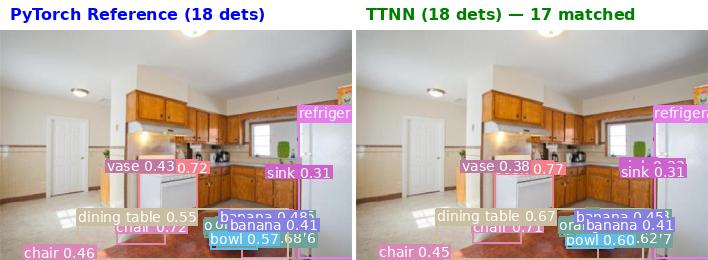
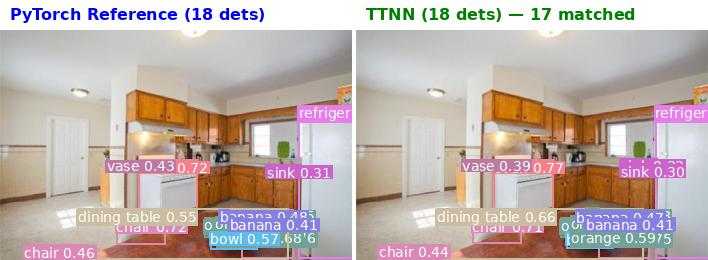
changes in pre_transformer and positional_encoding in decoder

diff --git a/models/experimental/dino_5scale_swin_l/tt/tt_dino.py b/models/experimental/dino_5scale_swin_l/tt/tt_dino.py
@@ -25,8 +25,21 @@ from models.experimental.dino_5scale_swin_l.tt.tt_encoder import TtDINOEncoder
 from models.experimental.dino_5scale_swin_l.tt.tt_decoder import (
     TtDINODecoder,
     TtRegBranch,
-    inverse_sigmoid_torch,
+    inverse_sigmoid_ttnn,
 )
+
+# Tile alignment for ttnn.concat (TILE layout requires aligned dims)
+TILE_ALIGN = 32
+
+
+def _tile_aligned_hw(H: int, W: int) -> int:
+    """Return padded H*W: tile-aligned and divisible by H (for encoder value reshape)."""
+    hw = H * W
+    padded = (hw + TILE_ALIGN - 1) // TILE_ALIGN * TILE_ALIGN
+    if padded % H != 0:
+        padded = ((hw + H - 1) // H) * H
+        padded = (padded + TILE_ALIGN - 1) // TILE_ALIGN * TILE_ALIGN
+    return padded
 
 
 def sine_positional_encoding(
@@ -241,73 +254,109 @@ class TtDINO:
         mlvl_feats_tt: List[ttnn.Tensor],
     ) -> Dict[str, Any]:
         """
-        Flatten and positional encoding on device; concat on host (ttnn.concat
-        requires TILE; spatial dims are not always tile-aligned).
+        Flatten and positional encoding on device; concat on device with padding
+        so that each level's H*W is tile-aligned (ttnn.concat requires TILE).
+        Slices out valid [B, N, 256] before returning so encoder/pre_decoder see unpadded sequence.
 
-        Args:
-            mlvl_feats_tt: list of 5 NCHW ttnn tensors from neck [B, 256, H_i, W_i]
-
-        Returns same keys as pre_transformer, with feat_flatten and feat_pos as
-        ttnn tensors, and spatial_shapes/level_start_index/valid_ratios as torch.
+        Returns feat_flatten, feat_pos as ttnn tensors [B, N, 256]; level_start_index is unpadded.
         """
-        logger.info("Pre-transformer (TT): flatten + PE on device...")
+        logger.info("Pre-transformer (TT): flatten + pad + PE + concat on device...")
         sh0 = tuple(mlvl_feats_tt[0].shape)
         B, C = int(sh0[0]), int(sh0[1])
-        feat_flat_list_tt: List[ttnn.Tensor] = []
-        pos_torch_list: List[torch.Tensor] = []
+        feat_padded_list: List[ttnn.Tensor] = []
+        pos_padded_list: List[ttnn.Tensor] = []
         spatial_shapes_list: List[List[int]] = []
+        padded_hw_list: List[int] = []
+        hw_list: List[int] = []
 
         for lvl, feat_tt in enumerate(mlvl_feats_tt):
             sh = tuple(feat_tt.shape)
             H, W = int(sh[2]), int(sh[3])
+            hw = H * W
+            padded_hw = _tile_aligned_hw(H, W)
             spatial_shapes_list.append([H, W])
+            padded_hw_list.append(padded_hw)
+            hw_list.append(hw)
 
             # Flatten on device: (B, C, H, W) -> (B, H*W, C)
             feat_tt = ttnn.to_layout(feat_tt, ttnn.ROW_MAJOR_LAYOUT)
             feat_tt = ttnn.permute(feat_tt, (0, 2, 3, 1))
-            feat_flat_tt = ttnn.reshape(feat_tt, (B, H * W, C))
-            feat_flat_list_tt.append(feat_flat_tt)
+            feat_flat_tt = ttnn.reshape(feat_tt, (B, hw, C))
+            if padded_hw > hw:
+                pad_count = padded_hw - hw
+                zeros_tt = ttnn.zeros(
+                    (B, pad_count, C),
+                    dtype=ttnn.bfloat16,
+                    layout=ttnn.ROW_MAJOR_LAYOUT,
+                    device=self.device,
+                    memory_config=self._dram_cfg,
+                )
+                feat_flat_tt = ttnn.concat([feat_flat_tt, zeros_tt], dim=1)
+                ttnn.deallocate(zeros_tt)
+            feat_flat_tt = ttnn.to_layout(feat_flat_tt, ttnn.TILE_LAYOUT)
+            feat_padded_list.append(feat_flat_tt)
 
-            # PE on device: cached [1, H*W, 256] + level_embed; then to host and expand to B
+            # PE on device: cached [1, H*W, 256] + level_embed, then pad and expand to B
             pos_tt = self._get_pe_tt(int(H), int(W))
             level_slice = self.level_embed[lvl : lvl + 1, :]  # [1, 256]
             pos_tt = ttnn.add(pos_tt, level_slice, memory_config=self._dram_cfg)
-            pos_torch = ttnn.to_torch(ttnn.from_device(pos_tt)).float()
-            ttnn.deallocate(pos_tt)
-            pos_torch = pos_torch.repeat(B, 1, 1)  # [1, H*W, 256] -> [B, H*W, 256]
-            pos_torch_list.append(pos_torch)
+            if padded_hw > hw:
+                pad_count = padded_hw - hw
+                zeros_pos = ttnn.zeros(
+                    (1, pad_count, C),
+                    dtype=ttnn.bfloat16,
+                    layout=ttnn.TILE_LAYOUT,
+                    device=self.device,
+                    memory_config=self._dram_cfg,
+                )
+                pos_tt = ttnn.concat([pos_tt, zeros_pos], dim=1)
+                ttnn.deallocate(zeros_pos)
+            pos_tt = ttnn.repeat(pos_tt, (B, 1, 1))
+            pos_tt = ttnn.to_layout(pos_tt, ttnn.TILE_LAYOUT)
+            pos_padded_list.append(pos_tt)
 
-        # Concat on host (ttnn.concat requires TILE; H*W often not tile-aligned)
-        feat_torch_list = [ttnn.to_torch(ttnn.from_device(t)) for t in feat_flat_list_tt]
-        for t in feat_flat_list_tt:
+        # Concat on device (all levels are tile-aligned)
+        feat_flatten_padded = ttnn.concat(feat_padded_list, dim=1)
+        feat_pos_padded = ttnn.concat(pos_padded_list, dim=1)
+        for t in feat_padded_list:
+            ttnn.deallocate(t)
+        for t in pos_padded_list:
             ttnn.deallocate(t)
 
-        feat_flatten = torch.cat(feat_torch_list, dim=1)
-        feat_pos = torch.cat(pos_torch_list, dim=1)
+        N = sum(hw_list)
+        N_padded = sum(padded_hw_list)
         spatial_shapes = torch.tensor(spatial_shapes_list, dtype=torch.long)
+        # Slice out valid [B, N, C] so encoder/pre_decoder see unpadded sequence
+        padded_starts = [0] + list(torch.tensor(padded_hw_list, dtype=torch.long).cumsum(0)[:-1].tolist())
+        if N_padded > N:
+            feat_segments = []
+            pos_segments = []
+            for lvl in range(len(hw_list)):
+                start = padded_starts[lvl]
+                end = start + hw_list[lvl]
+                feat_segments.append(ttnn.slice(feat_flatten_padded, [0, start, 0], [B, end, C]))
+                pos_segments.append(ttnn.slice(feat_pos_padded, [0, start, 0], [B, end, C]))
+            feat_flatten_tt = ttnn.concat(feat_segments, dim=1)
+            feat_pos_tt = ttnn.concat(pos_segments, dim=1)
+            ttnn.deallocate(feat_flatten_padded)
+            ttnn.deallocate(feat_pos_padded)
+            for t in feat_segments:
+                ttnn.deallocate(t)
+            for t in pos_segments:
+                ttnn.deallocate(t)
+        else:
+            feat_flatten_tt = feat_flatten_padded
+            feat_pos_tt = feat_pos_padded
+
         level_start_index = torch.cat(
             [
                 spatial_shapes.new_zeros((1,)),
                 spatial_shapes.prod(1).cumsum(0)[:-1],
             ]
         )
-        valid_ratios = feat_flatten.new_ones(B, len(mlvl_feats_tt), 2)
+        valid_ratios = torch.ones(B, len(mlvl_feats_tt), 2, dtype=torch.float32)
 
-        feat_flatten_tt = ttnn.from_torch(
-            feat_flatten.to(torch.bfloat16),
-            device=self.device,
-            layout=ttnn.TILE_LAYOUT,
-        )
-        feat_pos_tt = ttnn.from_torch(
-            feat_pos.to(torch.bfloat16),
-            device=self.device,
-            layout=ttnn.TILE_LAYOUT,
-        )
-
-        logger.info(
-            f"Pre-transformer (TT): feat_flatten {tuple(feat_flatten.shape)}, "
-            f"spatial_shapes {spatial_shapes.tolist()}"
-        )
+        logger.info(f"Pre-transformer (TT): feat_flatten [B={B}, N={N}], " f"spatial_shapes {spatial_shapes.tolist()}")
         return {
             "feat_flatten": feat_flatten_tt,
             "feat_pos": feat_pos_tt,
@@ -488,50 +537,72 @@ class TtDINO:
     def forward_heads(
         self,
         hidden_states: List[ttnn.Tensor],
-        references: List[torch.Tensor],
+        references: List[torch.Tensor | ttnn.Tensor],
     ) -> Tuple[torch.Tensor, torch.Tensor]:
         """
         Apply classification and regression heads to decoder outputs.
+        All head computation (cls linear, reg branch, inverse_sigmoid, add, sigmoid)
+        is done on device; results are stacked on device and converted to torch once at the end.
 
         Args:
             hidden_states: list of 6 ttnn [B, num_queries, 256] (normed decoder outputs)
-            references: list of 7 torch [B, num_queries, 4] (initial + per-layer)
+            references: list of 7 [B, num_queries, 4]: references[0] torch, references[1:] ttnn
 
         Returns:
             all_cls: [num_layers, B, num_queries, num_classes] float32
             all_coords: [num_layers, B, num_queries, 4] float32 (sigmoid coords)
         """
-        logger.info("Detection heads: computing class logits and bbox coords...")
-        all_cls = []
-        all_coords = []
+        logger.info("Detection heads: computing class logits and bbox coords on device...")
+        all_cls_tt: List[ttnn.Tensor] = []
+        all_coords_tt: List[ttnn.Tensor] = []
 
         for layer_id in range(len(hidden_states)):
             hidden_state = hidden_states[layer_id]
             reference = references[layer_id]
-            if isinstance(reference, ttnn.Tensor):
-                reference = ttnn.to_torch(reference)
 
-            # Classification: Linear(256, 80) on device
+            # Classification: Linear(256, num_classes) on device
             cls_w = self.cls_branches[layer_id]["weight"]
             cls_b = self.cls_branches[layer_id]["bias"]
             cls_out_tt = ttnn.linear(hidden_state, cls_w, bias=cls_b)
-            cls_out = ttnn.to_torch(cls_out_tt).float()[:, : self.num_queries, :]
-            ttnn.deallocate(cls_out_tt)
+            all_cls_tt.append(cls_out_tt)
 
-            # Regression: reg_branch on device + inverse_sigmoid(reference)
+            # Regression: reg_branch on device
             reg_out_tt = self.reg_branches_head[layer_id](hidden_state)
-            reg_out = ttnn.to_torch(reg_out_tt).float()[:, : self.num_queries, :]
+            # Reference to device, inverse_sigmoid on device, then add + sigmoid on device
+            # references[0] is torch (initial); references[1:] are ttnn from decoder
+            if isinstance(reference, torch.Tensor):
+                ref_tt = ttnn.from_torch(
+                    reference.to(torch.bfloat16),
+                    device=self.device,
+                    layout=ttnn.TILE_LAYOUT,
+                    memory_config=self._dram_cfg,
+                )
+                ref_inv_tt = inverse_sigmoid_ttnn(ref_tt, eps=1e-3)
+                ttnn.deallocate(ref_tt)
+            else:
+                ref_tt = reference
+                ref_inv_tt = inverse_sigmoid_ttnn(ref_tt, eps=1e-3)
+            coords_tt = ttnn.sigmoid(ttnn.add(reg_out_tt, ref_inv_tt))
+            ttnn.deallocate(ref_inv_tt)
             ttnn.deallocate(reg_out_tt)
+            all_coords_tt.append(coords_tt)
+            logger.info(f"  Head layer {layer_id}: cls and coords on device")
 
-            ref_inv = inverse_sigmoid_torch(reference, eps=1e-3)
-            coords = (reg_out + ref_inv).sigmoid()
+        # Stack on device: [num_layers, B, num_queries, C]
+        stacked_cls_tt = ttnn.stack(all_cls_tt, dim=0)
+        stacked_coords_tt = ttnn.stack(all_coords_tt, dim=0)
+        for t in all_cls_tt:
+            ttnn.deallocate(t)
+        for t in all_coords_tt:
+            ttnn.deallocate(t)
 
-            all_cls.append(cls_out)
-            all_coords.append(coords)
-            logger.info(f"  Head layer {layer_id}: cls {cls_out.shape}, coords {coords.shape}")
-
-        all_cls = torch.stack(all_cls, dim=0)
-        all_coords = torch.stack(all_coords, dim=0)
+        # Single host transfer and convert to float32
+        _cls_t: torch.Tensor = ttnn.to_torch(stacked_cls_tt)
+        all_cls = _cls_t.float()[:, :, : self.num_queries, :]
+        _coords_t: torch.Tensor = ttnn.to_torch(stacked_coords_tt)
+        all_coords = _coords_t.float()[:, :, : self.num_queries, :]
+        ttnn.deallocate(stacked_cls_tt)
+        ttnn.deallocate(stacked_coords_tt)
         logger.info(f"Detection heads done: cls {all_cls.shape}, coords {all_coords.shape}")
 
         return all_cls, all_coords
@@ -575,7 +646,10 @@ class TtDINO:
         ttnn.deallocate(feat_tt)
         ttnn.deallocate(feat_pos_tt)
 
-        pre_dec = self.pre_decoder(memory_tt, pre_trans["spatial_shapes"])
+        pre_dec = self.pre_decoder(
+            memory_tt,
+            pre_trans["spatial_shapes"],
+        )
 
         logger.info("Running decoder...")
         hidden_states, references = self.decoder(
@@ -679,7 +753,10 @@ class TtDINO:
             N = pre_trans["spatial_shapes"].prod(1).sum().item()
             encoder_memory_torch = ttnn.to_torch(memory_tt).float()[:, :N, :]
 
-        pre_dec = self.pre_decoder(memory_tt, pre_trans["spatial_shapes"])
+        pre_dec = self.pre_decoder(
+            memory_tt,
+            pre_trans["spatial_shapes"],
+        )
 
         logger.info("Running decoder...")
         hidden_states, references = self.decoder(

diff --git a/models/experimental/dino_5scale_swin_l/tt/tt_decoder.py b/models/experimental/dino_5scale_swin_l/tt/tt_decoder.py
@@ -62,16 +62,24 @@ def coordinate_to_encoding_ttnn(coord_tensor, num_feats=128, temperature=10000):
 
     scale = 2 * math.pi
 
-    # create dim_t same as torch.arange
-    dim_t = ttnn.arange(num_feats, dtype=ttnn.float32)
-    dim_t = temperature ** (2 * (dim_t // 2) / num_feats)
+    # create dim_t same as torch.arange - compute entirely in TTNN with L1 memory for speed
+    device = coord_tensor.device()
+    dim_t = ttnn.arange(0, num_feats, 1, dtype=ttnn.float32, device=device)
+    dim_t = ttnn.to_layout(dim_t, layout=ttnn.TILE_LAYOUT)
+    dim_t = ttnn.to_memory_config(dim_t, ttnn.L1_MEMORY_CONFIG)
 
-    dim_t = ttnn.from_torch(
-        dim_t,
-        device=coord_tensor.device(),
-        dtype=ttnn.float32,
-        layout=ttnn.TILE_LAYOUT,
+    # Compute dim_t // 2 using floor division (all in L1 for faster computation)
+    dim_t_floor_div_2 = ttnn.floor(ttnn.divide(dim_t, 2.0, memory_config=ttnn.L1_MEMORY_CONFIG))
+
+    # Compute 2 * (dim_t // 2) / num_feats
+    exponent = ttnn.divide(
+        ttnn.multiply(dim_t_floor_div_2, 2.0, memory_config=ttnn.L1_MEMORY_CONFIG),
+        float(num_feats),
+        memory_config=ttnn.L1_MEMORY_CONFIG,
     )
+
+    # Compute temperature ** exponent
+    dim_t = ttnn.pow(float(temperature), exponent, memory_config=ttnn.L1_MEMORY_CONFIG)
 
     # split coords
     x_embed = ttnn.multiply(coord_tensor[:, :, 0:1], scale)

diff --git a/models/experimental/dino_5scale_swin_l/tests/perf/test_dino_device_perf.py b/models/experimental/dino_5scale_swin_l/tests/perf/test_dino_device_perf.py
@@ -16,7 +16,7 @@ import pytest
 from models.perf.device_perf_utils import prep_device_perf_report, run_device_perf
 
 
-@pytest.mark.timeout(3600)
+@pytest.mark.timeout(900)
 @pytest.mark.models_device_performance_bare_metal
 def test_perf_device_bare_metal_dino_5scale():
     """
@@ -30,8 +30,7 @@ def test_perf_device_bare_metal_dino_5scale():
     num_iterations = 1
 
     command = (
-        "pytest --timeout=0 models/experimental/dino_5scale_swin_l/tests/pcc/test_ttnn_dino_e2e.py"
-        "::test_ttnn_dino_e2e_pcc -sv"
+        "pytest  models/experimental/dino_5scale_swin_l/tests/pcc/test_ttnn_dino_e2e.py" "::test_ttnn_dino_e2e_pcc -sv"
     )
     cols = ["DEVICE FW", "DEVICE KERNEL", "DEVICE BRISC KERNEL"]
 
